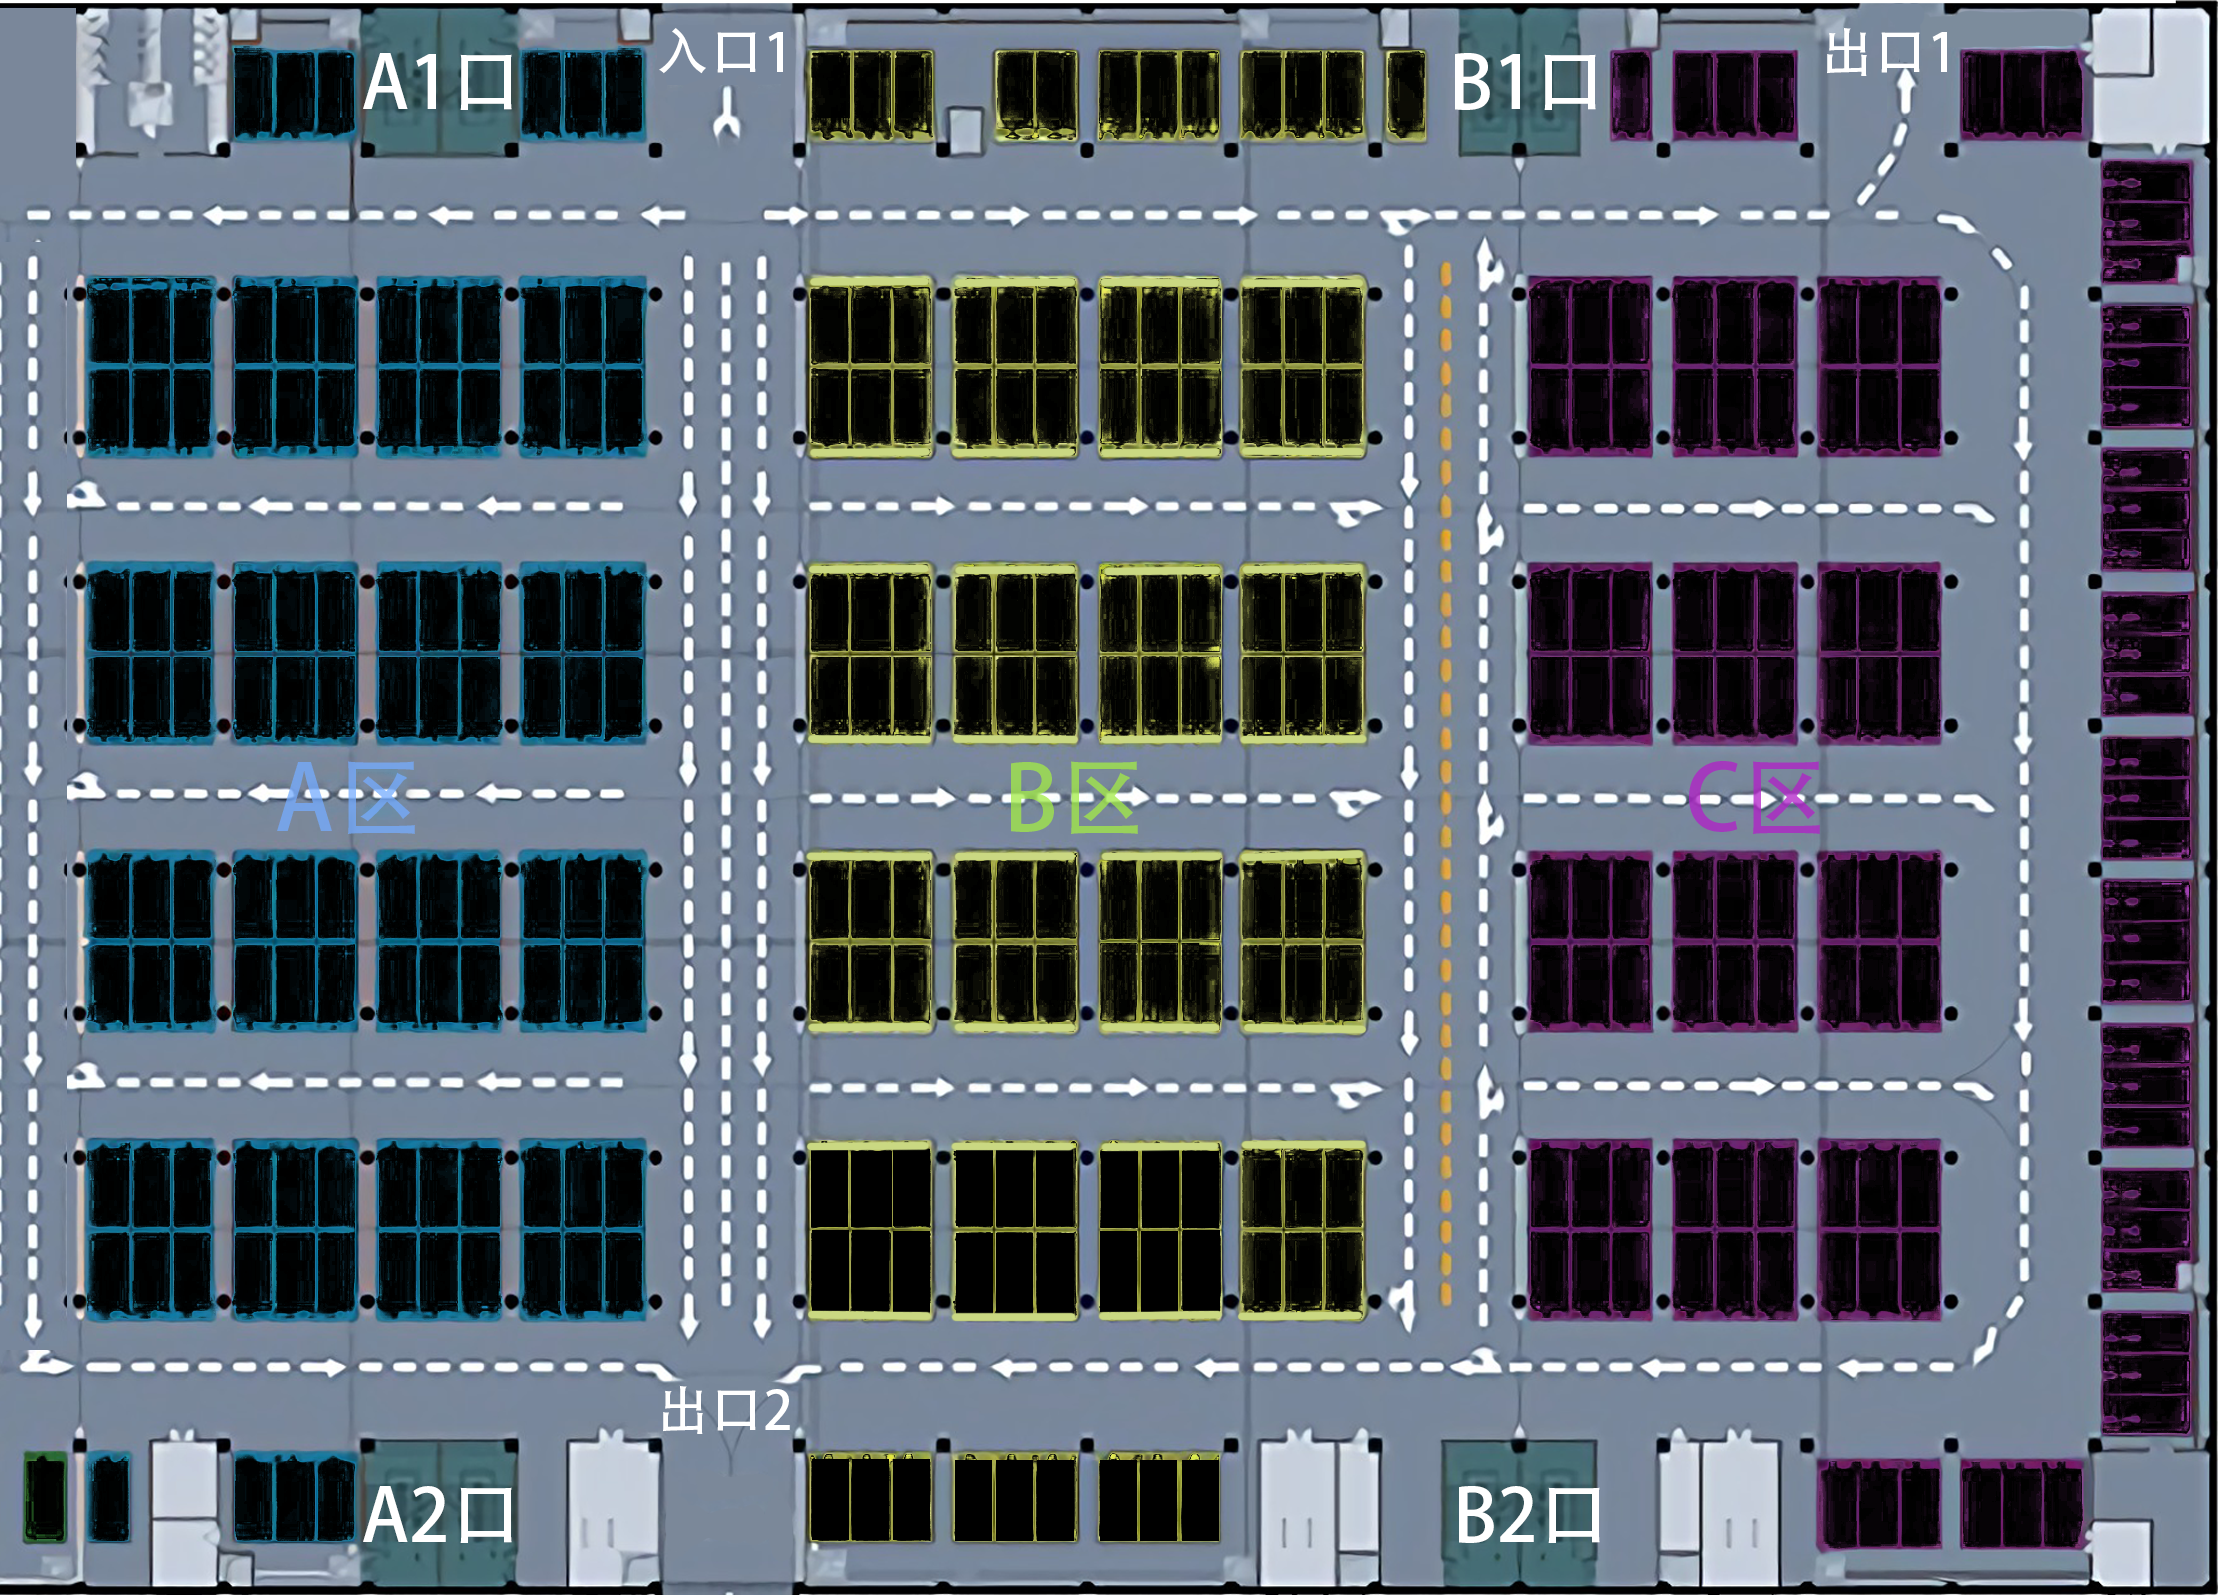
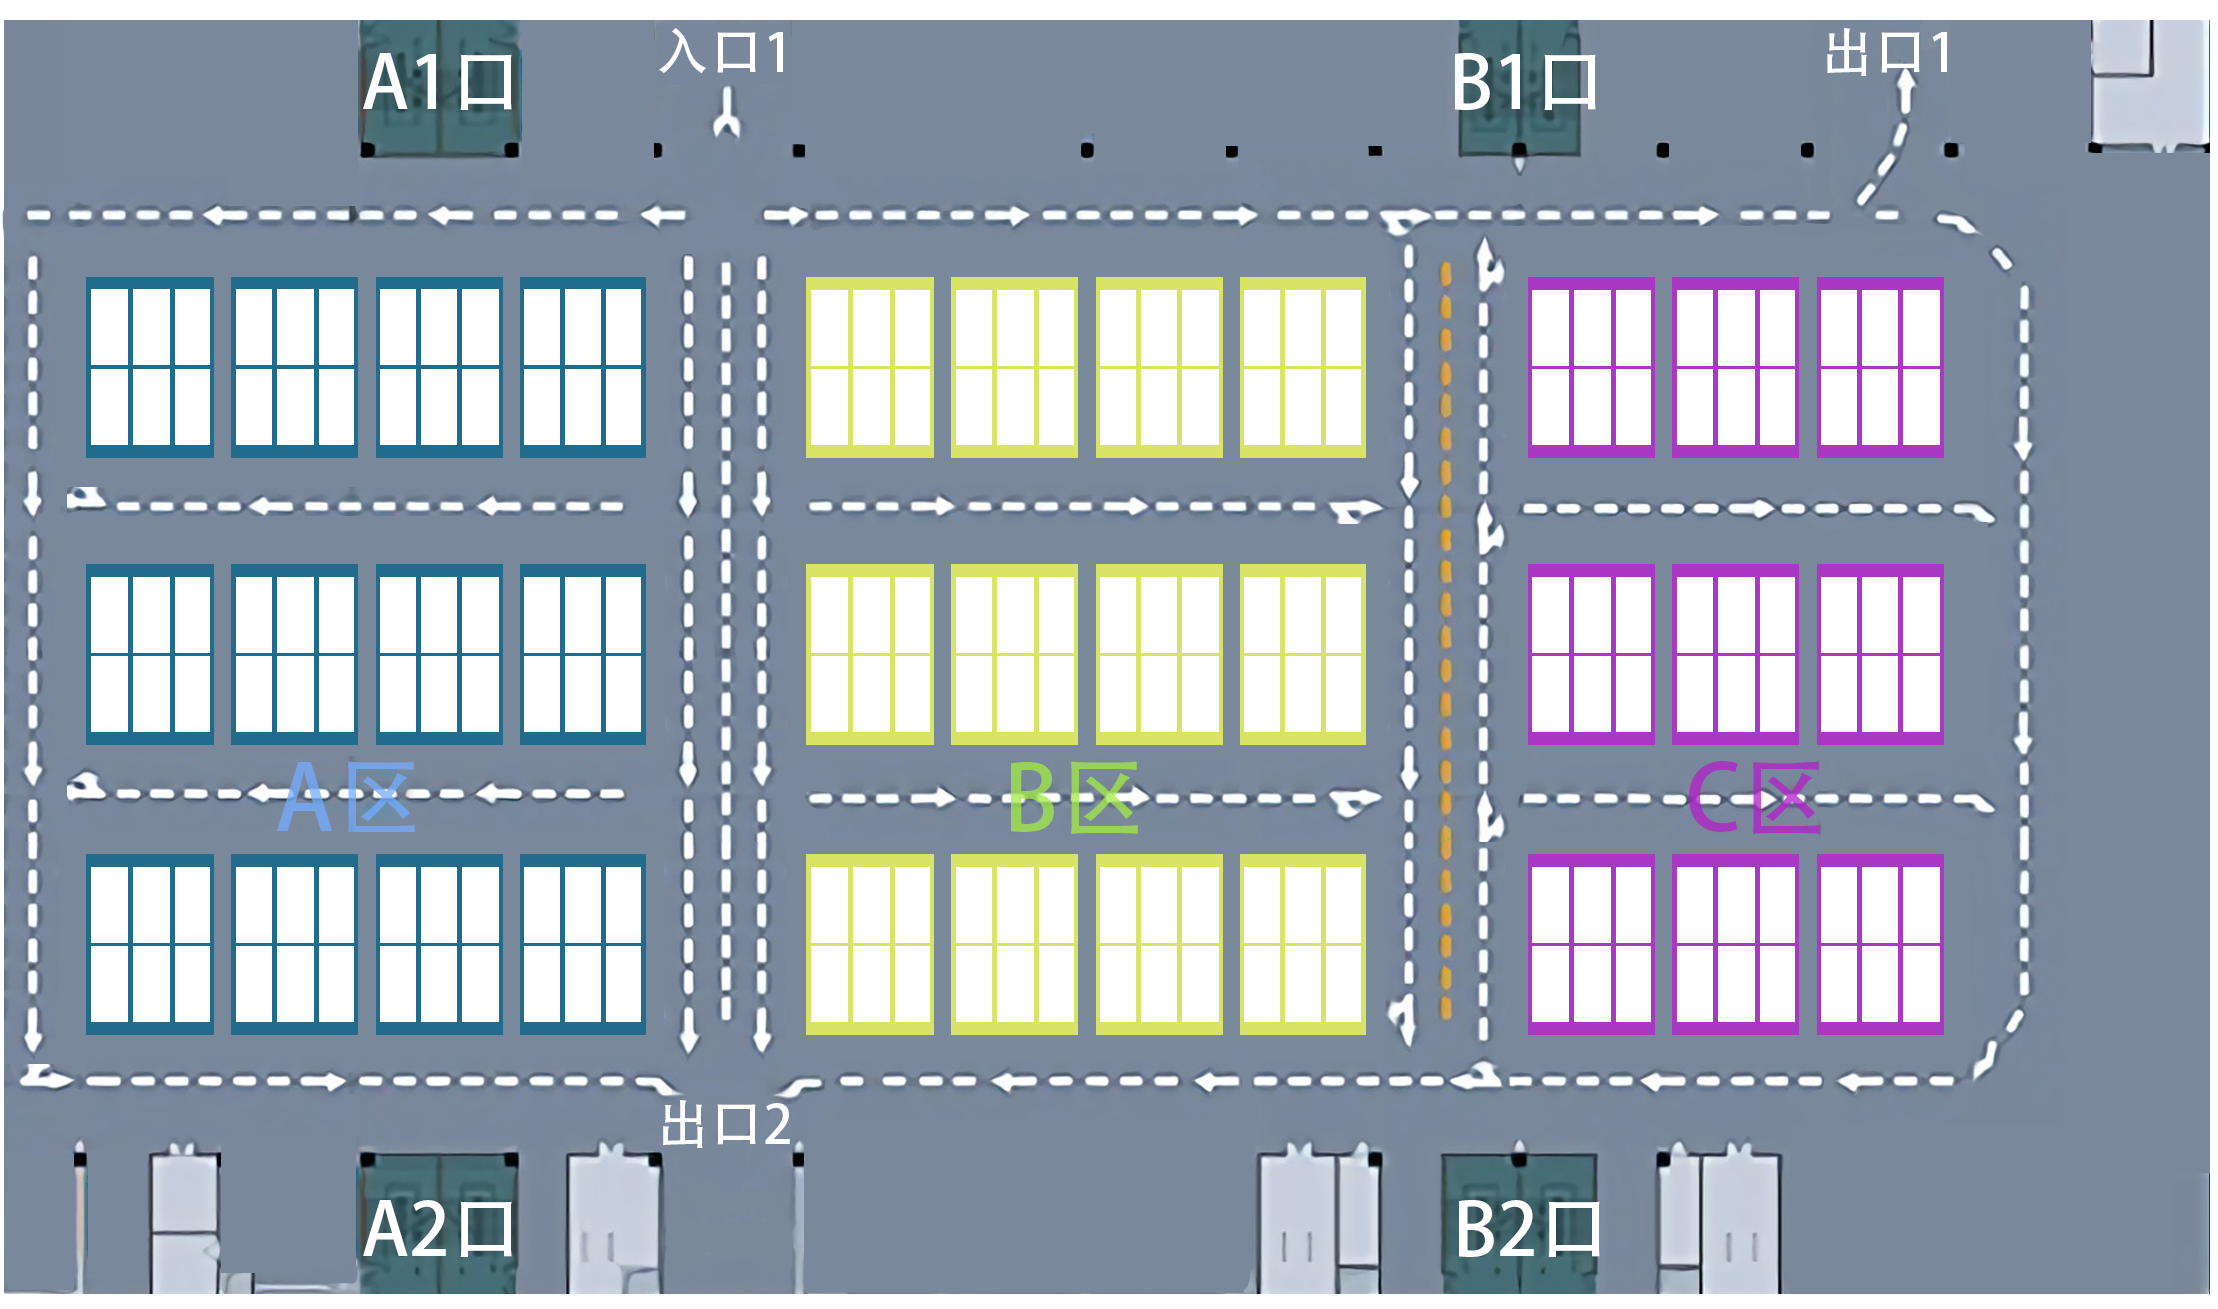
更新3.15 平面图更新

diff --git a/parking-manager-master/src/components/goods/GoodInfo.vue b/parking-manager-master/src/components/goods/GoodInfo.vue
@@ -10,12 +10,44 @@
     <div class="parking-table">
       <div class="parking-box-pic">
         <ul class="area_A">
-          <li>
-            <div class="a1_1p"></div>
-            <div class="a1_2p"></div>
-            <div class="a1_3p"></div>
-          </li>
-          <li></li>
+          <!-- A区域 -->
+          <ul class="area_a">
+            <!-- A区域 分区1 -->
+            <li class="area_a1">
+              <!-- 分区1 6小组 -->
+              <ul class="a1_group1">
+                <li class="a1_1">
+                  <div class="a1_1p" v-bind:id="parkingDataForm[0].parkingColor">
+                    <p>{{parkingDataForm[0].parking_area}}</p>
+                    <a>{{parkingDataForm[0].area_num}}</a>
+                  </div>
+                  <div class="a1_2p" v-bind:id="parkingDataForm[1].parkingColor">
+                    <p>{{parkingDataForm[1].parking_area}}</p>
+                    <a>{{parkingDataForm[1].area_num}}</a>
+                  </div>
+                  <div class="a1_3p" v-bind:id="parkingDataForm[2].parkingColor">
+                    <p>{{parkingDataForm[2].parking_area}}</p>
+                    <a>{{parkingDataForm[2].area_num}}</a>
+                  </div>
+                </li>
+                <li class="a1_2">
+                  <div class="a1_1p" v-bind:id="parkingDataForm[3].parkingColor">
+                    <p>{{parkingDataForm[3].parking_area}}</p>
+                    <a>{{parkingDataForm[3].area_num}}</a>
+                  </div>
+                  <div class="a1_2p" v-bind:id="parkingDataForm[4].parkingColor">
+                    <p>{{parkingDataForm[4].parking_area}}</p>
+                    <a>{{parkingDataForm[4].area_num}}</a>
+                  </div>
+                  <div class="a1_3p" v-bind:id="parkingDataForm[5].parkingColor">
+                    <p>{{parkingDataForm[5].parking_area}}</p>
+                    <a>{{parkingDataForm[5].area_num}}</a>
+                  </div>
+                </li>
+              </ul>
+            </li>
+          </ul>
+
           <li></li>
         </ul>
         <img src="../../assets/parking-table.png" alt="停车场平面图" />
@@ -40,40 +72,52 @@ export default {
       total: 0,
       addDialogVisible: false,
       editDialogVisible: false,
-      // 添加用户的表单数据
-      addForm: {
-        goodsName: "",
-        goodsCount: "",
-        company: ""
-      },
-      postForm: {
-        goodsName: "",
-        goodsCount: "",
-        company: ""
-      },
-      editForm: {
-        goodsName: "",
-        goodsCount: "",
-        inboundTime: "",
-        goodsId: "",
-        company: "",
-        checkSituation: ""
-      },
 
-      changeForm: {
-        goodsName: "",
-        goodsCount: "",
-        inboundTime: "",
-        goodsId: "",
-        company: "",
-        checkSituation: ""
-      },
-      postchangeForm: {
-        goodsName: "",
-        goodsCount: "",
-        company: "",
-        goodsId: ""
-      }
+      // 加载的车库情况表单数据
+      parkingDataForm: [
+        {
+          parking_area: "a1",
+          area_num: "1",
+          carId: "",
+          parkingColor: "p_red",
+          parkingSituation: "0"
+        },
+        {
+          parking_area: "a1",
+          area_num: "2",
+          carId: "",
+          parkingColor: "p_red",
+          parkingSituation: "1"
+        },
+        {
+          parking_area: "a1",
+          area_num: "3",
+          carId: "",
+          parkingColor: "p_red",
+          parkingSituation: "2"
+        },
+        {
+          parking_area: "a1",
+          area_num: "4",
+          carId: "",
+          parkingColor: "p_red",
+          parkingSituation: "3"
+        },
+        {
+          parking_area: "a1",
+          area_num: "5",
+          carId: "",
+          parkingColor: "p_green",
+          parkingSituation: "3"
+        },
+        {
+          parking_area: "a1",
+          area_num: "6",
+          carId: "",
+          parkingColor: "p_green",
+          parkingSituation: "3"
+        }
+      ]
     };
   },
   created: function() {
@@ -84,6 +128,16 @@ export default {
     //   this.total = this.tableData.length;
   },
   methods: {
+    tableRowClassName({ row, goodsCount }) {
+      if (row.checkSituation == 2) {
+        return "warning-row";
+      } else if (row.checkSituation == 1) {
+        return "success-row";
+      } else {
+        return "audit-row";
+      }
+      return "";
+    }
     //     fetch() {
     //       this.openLoading()
     //           this.$http.get(this.api+"commodity/getAll").then(res => {
@@ -182,7 +236,6 @@ export default {
 .parking-table {
   width: 100%;
   height: 600px;
-  padding: px;
   background-color: red;
 }
 .parking-box-pic img {
@@ -202,21 +255,87 @@ export default {
   background-color: #333744;
   padding: 30px;
 }
-.area_A{
+.area_A {
   width: 860px;
   height: 100%;
   margin-left: -13px;
   margin-top: -4px;
-  list-style:none;
+  list-style: none;
+}
+.area_A li p {
+  color: white;
+  font-size: 1px;
+  font-weight: 400;
+  margin-left: 2px;
+}
+.area_A li a {
+  position: relative;
+  color: white;
+  font-size: 1px;
+  font-weight: 400;
+  padding-right: 3px;
+  top: -10px;
+  margin-left: 4px;
+}
+#p_red {
+  background-color: rgb(255, 64, 64);
+  box-shadow: 0 0 4px rgb(252, 50, 50)
+}
+#p_green {
+  background-color: rgb(2, 187, 42);
+  box-shadow: 0 0 4px rgb(61, 216, 61)
+}
+
+.a1_1 {
+  position: absolute;
+  background-color: yellow;
+  left: -58.0px;
+  top: 113px;
+}
+.a1_2 {
+  position: absolute;
+  background-color: yellow;
+  left: -58.0px;
+  top: 149.8px;
 }
 .a1_1p {
-   height: 32px;
-    width: 16px;
-    position: absolute;
-    background-color: green;
-    z-index: 20;
-    top: 49.5px;
-    left: 115px;
-    opacity: 0.8;
+  height: 35px;
+  width: 14.5px;
+  position: absolute;
+  z-index: 20;
+  top: 49.5px;
+  left: 115.3px;
+  opacity: 0.9;
+  background-color: green;
+}
+.a1_2p {
+  height: 35px;
+  width: 14.5px;
+  position: absolute;
+  z-index: 20;
+  top: 49.5px;
+  left: 132px;
+  opacity: 0.9;
+  background-color: green;
+}
+.a1_3p {
+  height: 35px;
+  width: 14.5px;
+  position: absolute;
+  z-index: 20;
+  top: 49.5px;
+  left: 149px;
+  opacity: 0.9;
+  background-color: green;
+}
+.a1_4p {
+  height: 32px;
+  width: 16px;
+  position: absolute;
+  background-color: green;
+  z-index: 20;
+  top: 49.5px;
+  left: 231px;
+  opacity: 0.8;
 }
 </style>

diff --git a/parking-manager-master/src/components/Regist.vue b/parking-manager-master/src/components/Regist.vue
@@ -1,0 +1,38 @@
+
+<template>
+    <div class="theme" :style="bgProps">
+        <div class="btn">
+            <input type="color" v-model="changeColor">
+        </div>
+    </div>
+</template>
+<script>
+export default {
+    data() {
+        return {
+            changeColor: '#00cc00'
+        }
+    },
+    computed: {
+        bgProps() {
+           return {
+               '--bg-color': this.changeColor
+           }
+        }
+    },
+}
+</script>
+<style lang="scss" scoped>
+.theme{
+    width: 100%;
+    height: 500px;
+    display: flex;
+    align-items: center;
+    justify-content: center;
+    background-color: var(--bg-color);
+    .btn > input{
+        width: 30px;
+        height: 30px;
+    }
+}
+</style>
